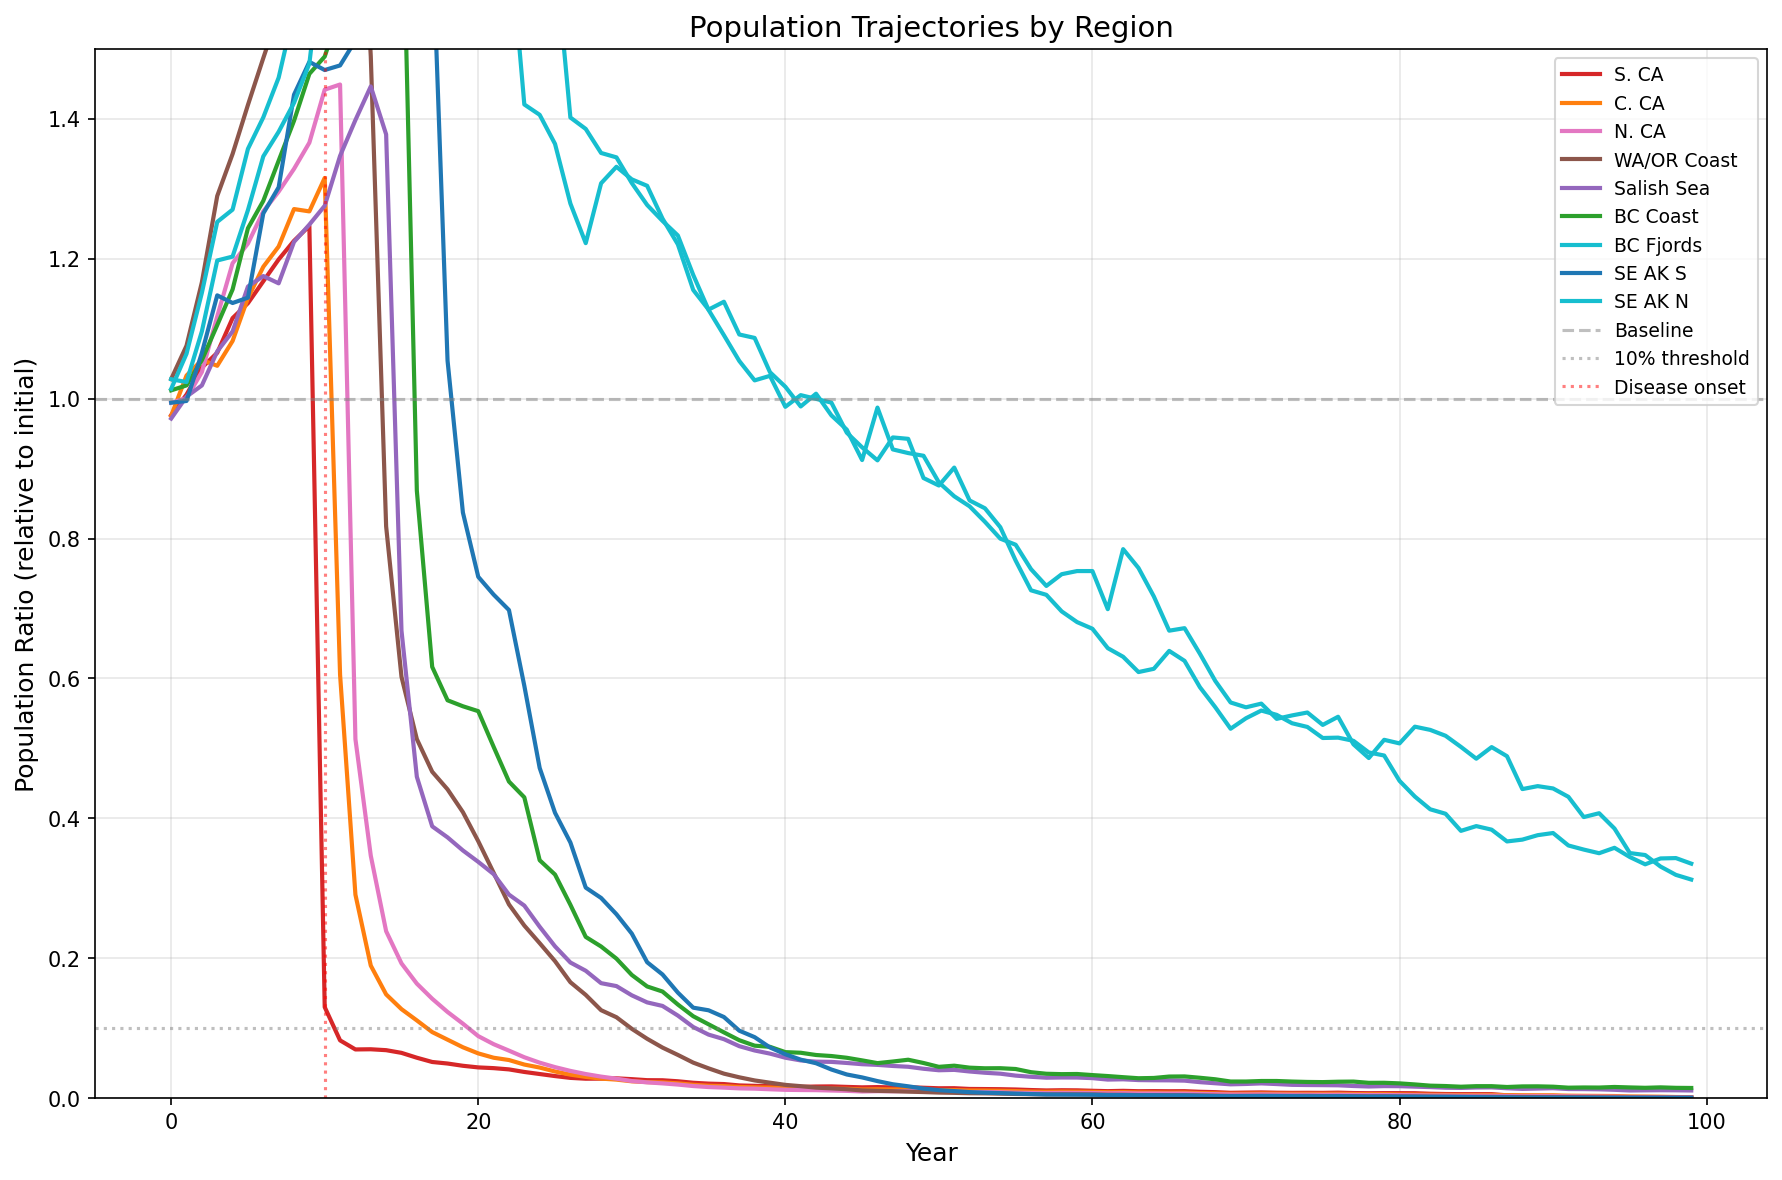
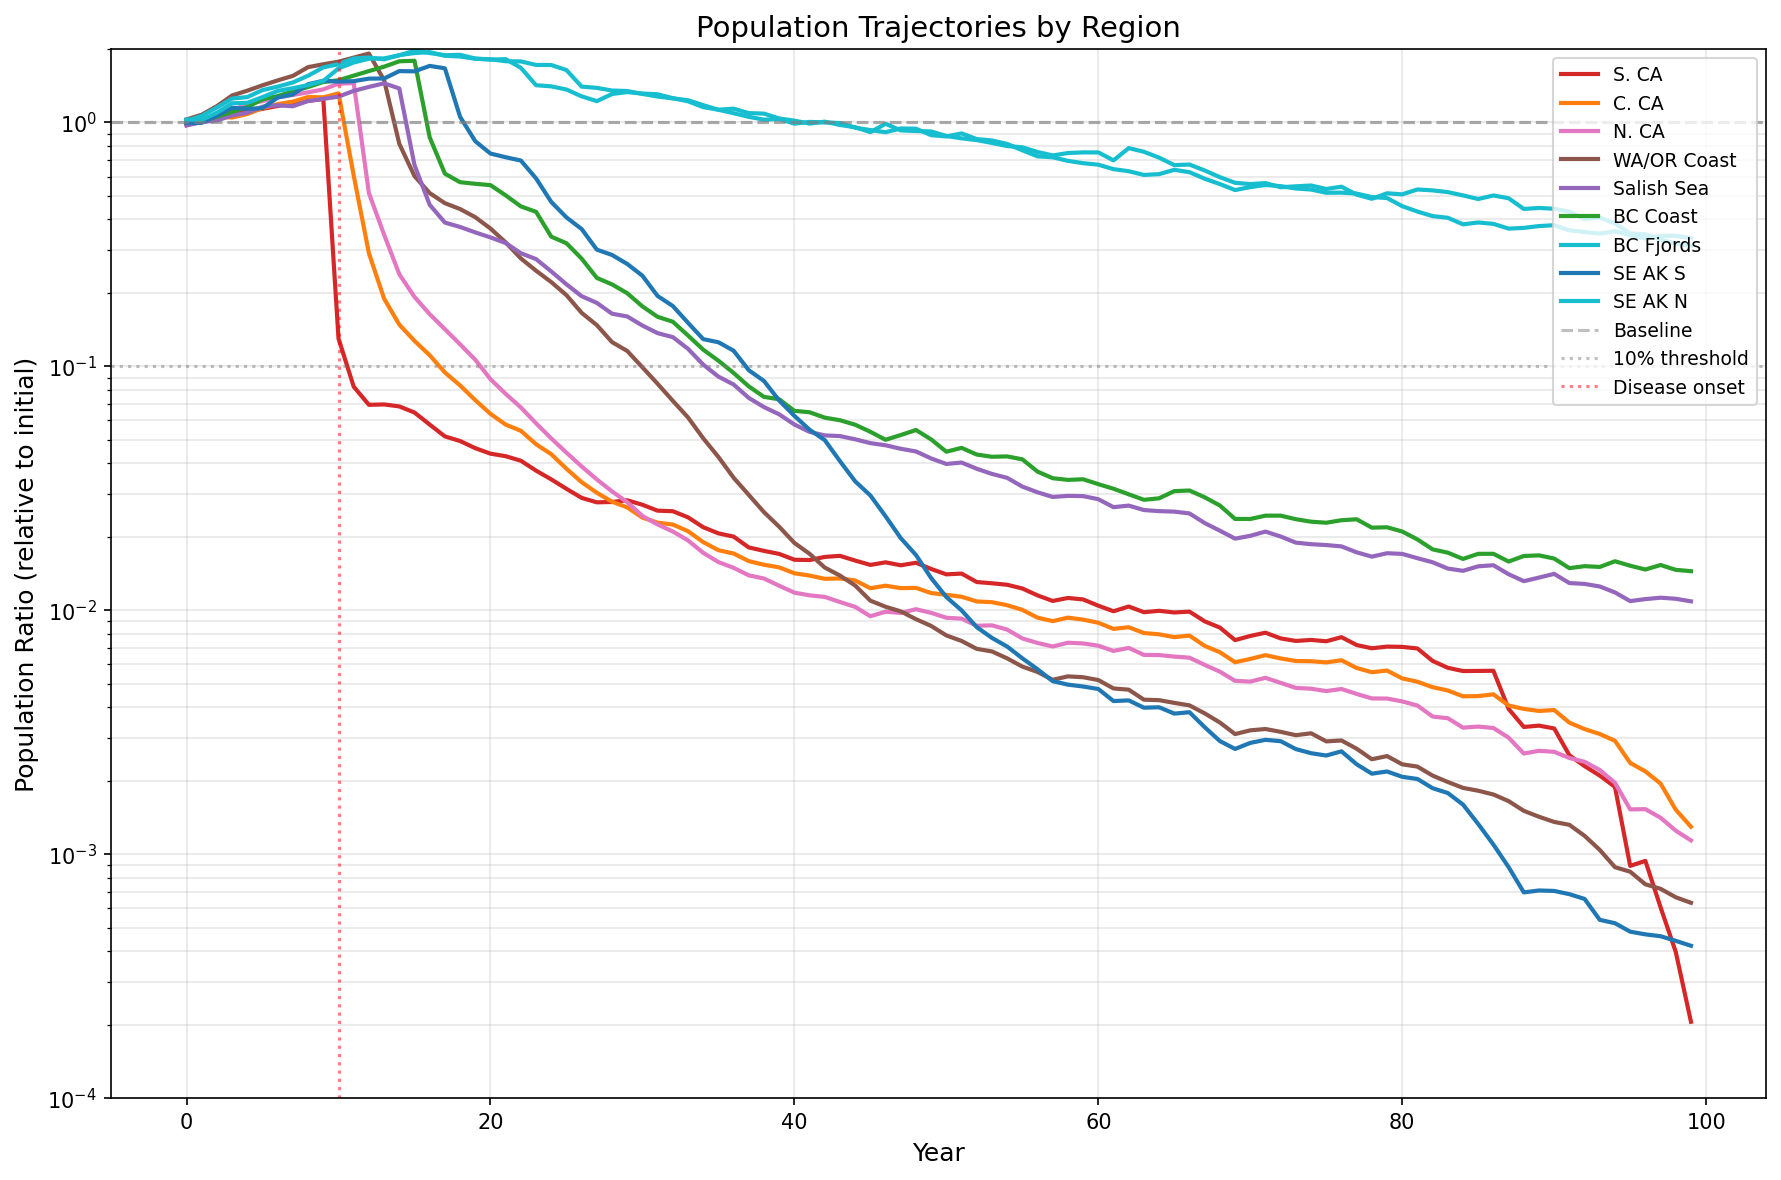
fix: log-scale y-axis on trajectory plots + within-region rapid spread

diff --git a/run_pacific_coast.py b/run_pacific_coast.py
@@ -363,8 +363,10 @@ def plot_population_trajectories_by_region(result: PacificCoastResult):
     ax.set_ylabel("Population Ratio (relative to initial)", fontsize=12)
     ax.set_title("Population Trajectories by Region", fontsize=14)
     ax.legend(loc='upper right', fontsize=9)
-    ax.set_ylim(0, 1.5)
-    ax.grid(True, alpha=0.3)
+    ax.set_yscale('log')
+    ax.set_ylim(1e-4, 2.0)
+    ax.axhline(y=1.0, color='gray', linestyle='--', alpha=0.3)
+    ax.grid(True, alpha=0.3, which='both')
     
     plt.tight_layout()
     save_figure(fig1, "04_population_trajectories")
@@ -391,7 +393,8 @@ def plot_population_trajectories_by_region(result: PacificCoastResult):
         ax.set_title(f"{region.name}\n(Observed survival: {region.post_sswd_survival:.0%})", fontsize=10)
         ax.set_xlabel("Year", fontsize=9)
         ax.set_ylabel("Ratio", fontsize=9)
-        ax.set_ylim(0, 1.2)
+        ax.set_yscale('log')
+        ax.set_ylim(1e-4, 2.0)
         ax.grid(True, alpha=0.3)
         
         if i == 0:
